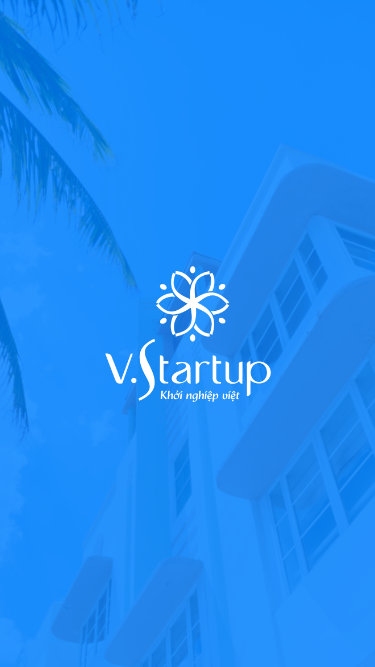
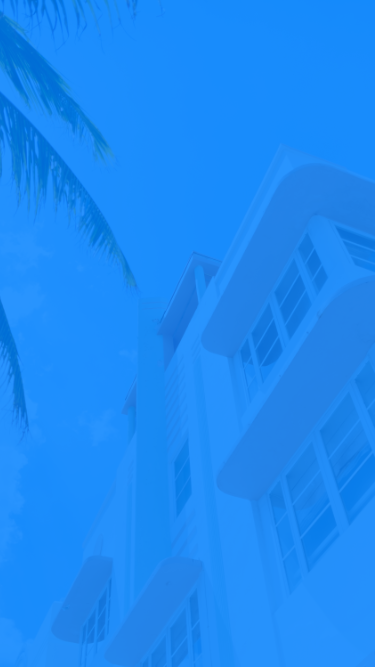
fix_google

Changed region(s): [[0.2933, 0.5097, 0.7333, 0.5997], [0.4107, 0.3898, 0.616, 0.5097], [0.264, 0.5097, 0.2933, 0.5397]]

diff --git a/src/routes/SplashScreen.js b/src/routes/SplashScreen.js
@@ -1,11 +1,11 @@
 import React from 'react';
-import { View, Image, StatusBar, AsyncStorage, Text } from 'react-native';
+import { View, Image, StatusBar, AsyncStorage, Text, StyleSheet } from 'react-native';
 import { StackActions, NavigationActions } from 'react-navigation';
 import { connect } from 'react-redux';
 import { getOr } from 'lodash/fp';
 
 import * as routes from './routes';
-import { _dims } from '../utils/constants';
+import { _dims, responsiveWidth } from '../utils/constants';
 import Overlay from '../components/common/Overlay';
 import {
   getListCityAction,
@@ -18,6 +18,7 @@ import strings from '../localization/authorization';
 import { ApiClient } from '../swaggerApi/src';
 
 const bg = require('../assets/images/Loading.png');
+const logo = require('../assets/images/logo.png');
 
 class SplashScreen extends React.Component {
   async componentDidMount() {
@@ -62,16 +63,17 @@ class SplashScreen extends React.Component {
 
   render() {
     return (
-      <View style={{ flex: 1 }}>
+      <View style={styles.wrapper}>
         <StatusBar hidden />
         <Overlay visible />
         <Image
           source={bg}
-          style={{
-            width: _dims.screenWidth,
-            height: _dims.screenHeight,
-            resizeMode: 'stretch'
-          }}
+          style={styles.background}
+        />
+        <Image 
+          resizeMode="cover" 
+          source={logo} 
+          style={styles.logo} 
         />
         <Text
           style={{
@@ -92,6 +94,26 @@ const mapStateToProps = state => ({
   auth: state.auth,
   options: state.options,
   city: state.city
+});
+
+const styles = StyleSheet.create({
+  wrapper: {
+    flex: 1,
+    justifyContent: 'center',
+    alignItems: 'center'
+  },
+  background: {
+    ...StyleSheet.absoluteFillObject,
+    width: _dims.screenWidth,
+    height: _dims.screenHeight,
+    resizeMode: 'stretch',
+  },
+  logo: {
+    width: responsiveWidth(30),
+    height: responsiveWidth(30),
+    alignItems: 'center',
+    justifyContent: 'center'
+  },
 });
 
 export default connect(mapStateToProps)(SplashScreen);

diff --git a/src/components/authorization/login/index.js b/src/components/authorization/login/index.js
@@ -5,7 +5,6 @@ import {
   Text,
   TextInput,
   Image,
-  KeyboardAvoidingView,
   StyleSheet
 } from 'react-native';
 import { connect } from 'react-redux';
@@ -30,9 +29,6 @@ import headerStrings from '../../../localization/header';
 import { loginAction, socialAction } from '../../../redux/auth/actions';
 import emitter from '../../../emitter';
 
-import { authApi } from '../../../utils/api';
-import ApiClient from '../../../swaggerApi/src/ApiClient';
-
 const logo = require('../../../assets/images/logo.png');
 const background = require('../../../assets/images/Loading.png');
 const facebook = require('../../../assets/socials/facebook.png');
@@ -42,8 +38,8 @@ class Login extends Component {
   constructor(props) {
     super(props);
     this.state = {
-      email: 'agency02@gmail.com',
-      password: '123admin',
+      email: '',
+      password: '',
       googleUser: null
     };
   }
@@ -122,7 +118,7 @@ class Login extends Component {
           <Overlay visible={this.props.auth.fetching} />
           <Image style={styles.bg} resizeMode="cover" source={background} />
           <View style={styles.logoContainer}>
-            {/* <Image resizeMode="cover" source={logo} style={styles.logo} /> */}
+            <Image resizeMode="cover" source={logo} style={styles.logo} />
           </View>
           <View style={styles.inputWrapper}>
             <TextInput

diff --git a/src/components/authorization/login/google.js b/src/components/authorization/login/google.js
@@ -10,15 +10,17 @@ export const _setupGoogleSignin = async callback => {
     await GoogleSignin.configure({
       iosClientId: googleSignin.ios_client_id,
       webClientId: googleSignin.web_client_id,
+      
       offlineAccess: false
     });
 
     const user = await GoogleSignin.currentUserAsync();
+    console.log(user);
     if (callback) {
       callback(user);
     }
   } catch (err) {
-    console.log(err);
+    console.log('aaa', err);
     // _alert(alertStrings.error, `${err.code}: ${err.message}`);
   }
 };
@@ -26,9 +28,11 @@ export const _setupGoogleSignin = async callback => {
 export const _signInGoogle = callback => {
   GoogleSignin.signIn()
     .then(user => {
+      console.log(user);
       callback(user);
     })
     .catch(err => {
+      console.log('err', err);
       // user cancel
       if (err.code !== -5) {
         _alert(alertStrings.error, `${err.code}: ${err.message}`);

diff --git a/src/utils/socials.js b/src/utils/socials.js
@@ -10,8 +10,8 @@ export const maps = {
 };
 
 export const googleSignin = {
-  ios_client_id: '516840190140-phpsd9jt47ghvr3mksploufod99cj7ro.apps.googleusercontent.com',
+  ios_client_id: '829797175522-bcid7vsl5vntqcg8sqktu1isa6nr9786.apps.googleusercontent.com',
   ios_url_scheme: 'com.googleusercontent.apps.516840190140-phpsd9jt47ghvr3mksploufod99cj7ro',
-  web_client_id: '516840190140-c110k9ro6uko894jjiljv011hflgin8q.apps.googleusercontent.com',
+  web_client_id: '829797175522-9ptsts2vbkflosr1r3d7kio0893pfpr4.apps.googleusercontent.com',
   android_client_id: '516840190140-c110k9ro6uko894jjiljv011hflgin8q.apps.googleusercontent.com'
 };

diff --git a/src/components/authorization/register/AgencyRegister.js b/src/components/authorization/register/AgencyRegister.js
@@ -44,6 +44,7 @@ class AgencyRegister extends Component {
             phone: this.state.phone,
             lat: this.state.address.latitude,
             lng: this.state.address.longitude,
+            address: this.state.address.address,
             role_id: 3
           }
         };
@@ -240,6 +241,7 @@ class AgencyRegister extends Component {
         <TouchableOpacity
           onPress={async () => {
             const val = await RNGooglePlaces.openAutocompleteModal();
+            console.log(val);
             this.setState({ address: val });
           }}
           style={[

diff --git a/src/redux/contact/epics.js b/src/redux/contact/epics.js
@@ -46,7 +46,12 @@ const deleteContact = actions$ =>
 const getListContact = actions$ =>
   actions$.ofType(GET_LIST_CONTACT).switchMap(async action => {
     try {
-      const resp = await contactApi.listContact(action.payload);
+      const a = {
+        keyword: '214',
+        page: 1
+      };
+      const resp = await contactApi.listContact(a);
+      console.log(resp);
       return { type: GET_LIST_CONTACT_SUCCESS, payload: resp.body };
     } catch (error) {
       handleError(error, true);

diff --git a/src/components/map/index.js b/src/components/map/index.js
@@ -343,7 +343,7 @@ class Map extends React.Component {
             latitudeDelta: LATITUDE_DELTA,
             longitudeDelta: LONGITUDE_DELTA
           }}
-          // showsUserLocation
+          showsUserLocation
           loadingEnabled
           zoomControlEnabled
           mapType={types[this.state.mapType]}

diff --git a/src/components/authorization/register/CustomerRegister.js b/src/components/authorization/register/CustomerRegister.js
@@ -32,7 +32,7 @@ class CustomerRegister extends Component {
             name: this.state.name,
             email: this.state.email,
             password: this.state.password,
-            role_id: 4
+            role_id: 4,
           }
         };
         const callback = () => registerAction(opts);

diff --git a/src/routes/Contacts.js b/src/routes/Contacts.js
@@ -54,6 +54,7 @@ class ListContact extends React.Component {
     this.onEndReachedCalledDuringMomentum = true;
   }
   componentDidMount() {
+    console.log(this.props);
     getListContactAction();
   }
 
